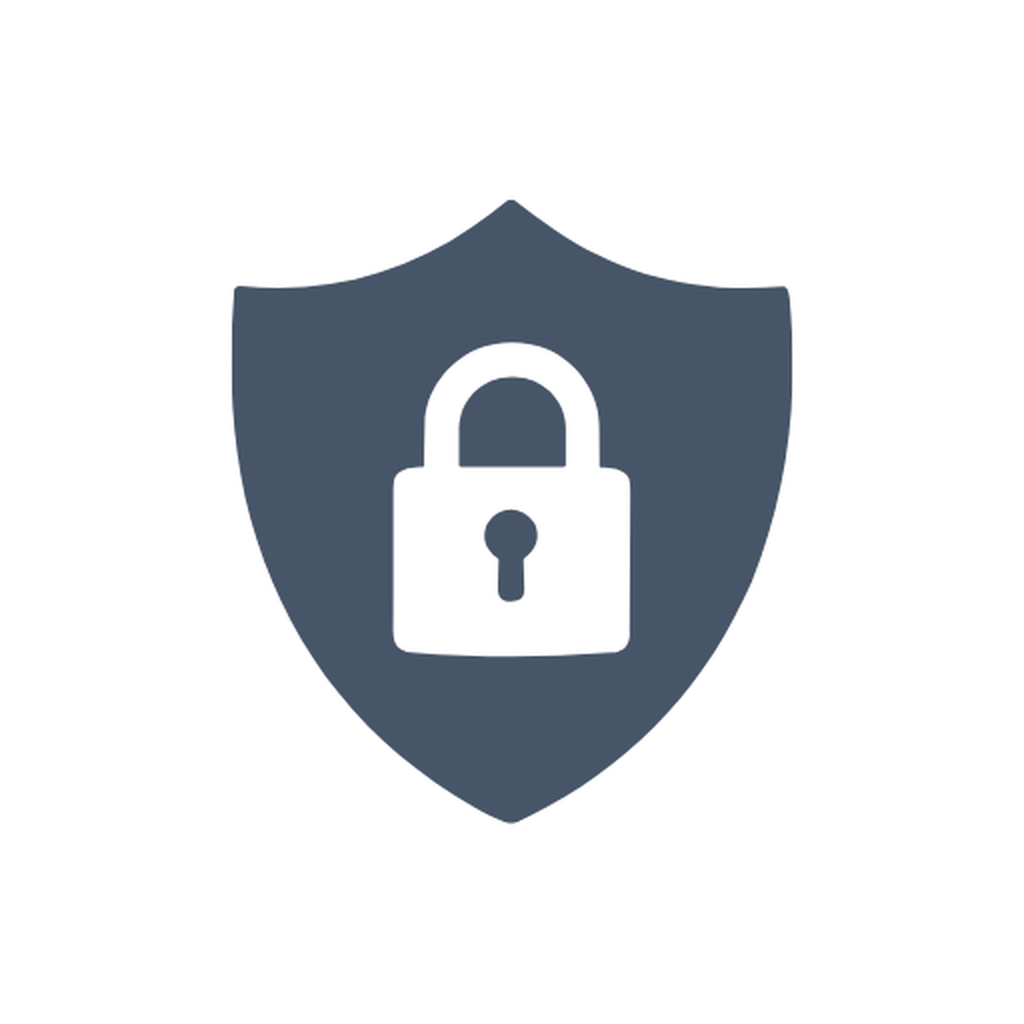
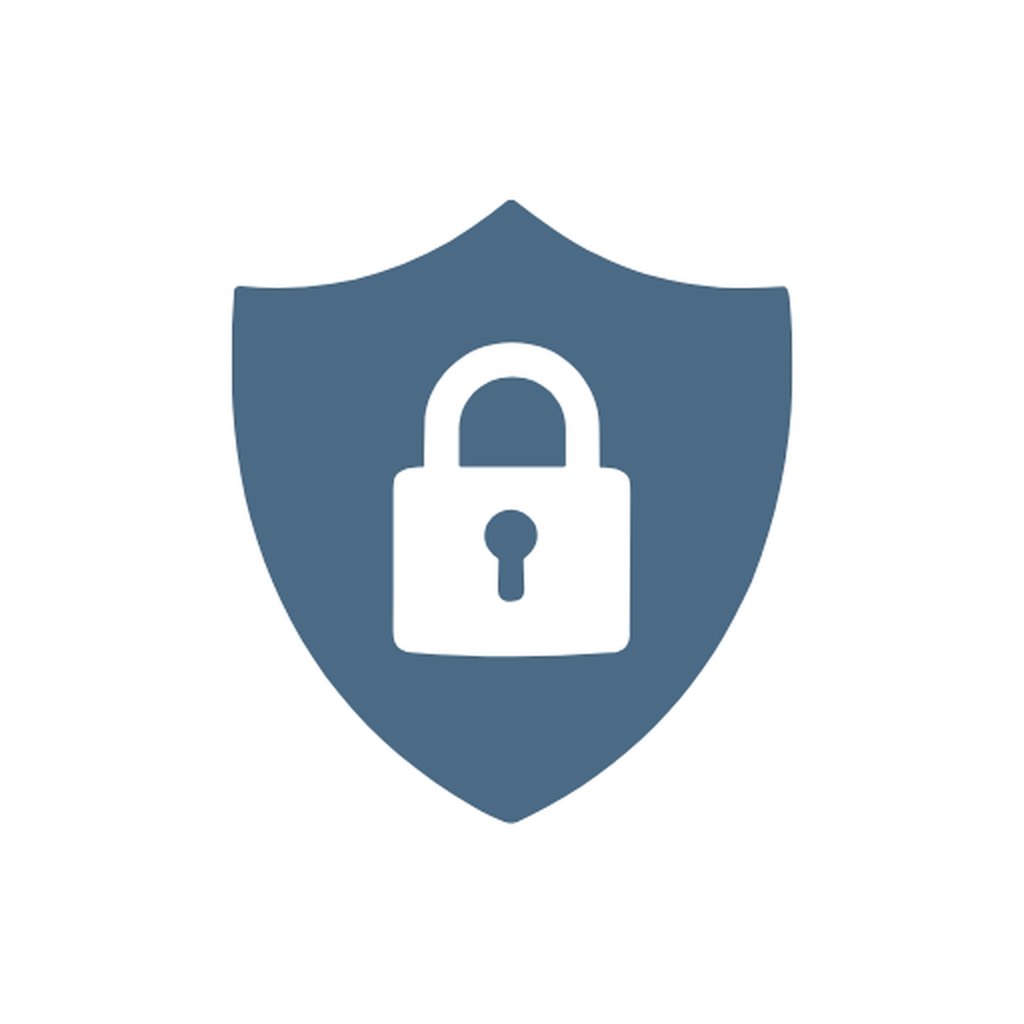
style: sentence-case type, lifted cards, Vault in Steel
Chosen from the style previews (font B, style A, Vault Steel):

- Type (same font, Geist): section titles, KPI labels and the small labels
  inside cards and forms drop ALL CAPS for sentence case; section titles are
  darker; amounts are larger and bolder with tabular digits.
- Surfaces: the light tint stays; cards (KPIs, cards, holding cards, settings,
  Coming up / Forecast, attendance rows) drop their outline and lift on a soft
  shadow in the app colour; the title bar casts a faint shadow.
- Vault accent: Steel #4A6A85 with matching tints, status-bar colour, manifest
  and recoloured icons. FinTracker blue and Staff teal unchanged.

The type and surface rules are one documented block appended to each app's
stylesheet so they override the older rules without rewriting them.

Claude-Session: https://claude.ai/code/session_01DLSV1RoUEk1Hy7YAgh29bM

Changed region(s): [[0.2188, 0.1875, 0.7812, 0.8125], [0.4688, 0.5, 0.5312, 0.5938]]

diff --git a/packages/apps/vault/src/styles/globals.css b/packages/apps/vault/src/styles/globals.css
@@ -16,9 +16,9 @@ button, input, select, textarea {
 .with-app-shell { overflow-x: hidden; background: var(--bg); min-height: 100vh; }
 
 :root {
-  /* Vault accent: Slate. Shared kit, own identity. */
-  --bg: #F4F6F8; --card: #FFF; --border: #D5DCE4; --text: #0F172A; --muted: #526070;
-  --navy: #475569; --accent-rgb: 71, 85, 105; --navy-lt: #EEF1F5; --navy-dark: #475569;
+  /* Vault accent: Steel. Shared kit, own identity. */
+  --bg: #F6F8F9; --card: #FFF; --border: #D6DDE3; --text: #0F172A; --muted: #526070;
+  --navy: #4A6A85; --accent-rgb: 74, 106, 133; --navy-lt: #F1F3F5; --navy-dark: #4A6A85;
   --green: #166534; --green-lt: #F0FDF4; --gm: #22C55E;
   --red: var(--rm); --red-lt: #FEF2F2; --rm: #EF4444;
   --amber: var(--rm); --amber-lt: var(--red-lt);
@@ -28,7 +28,7 @@ button, input, select, textarea {
 }
 
 /* NAV */
-.nav { background: var(--navy-lt); height: calc(54px + env(safe-area-inset-top)); display: flex; align-items: center; justify-content: space-between; padding: env(safe-area-inset-top) 14px 0; position: sticky; top: 0; z-index: 100; box-shadow: 0 1px 0 var(--border); gap: 10px; will-change: transform; transform: translateZ(0); }
+.nav { background: var(--navy-lt); height: calc(54px + env(safe-area-inset-top)); display: flex; align-items: center; justify-content: space-between; padding: env(safe-area-inset-top) 14px 0; position: sticky; top: 0; z-index: 100; box-shadow: 0 1px 0 var(--border), 0 4px 10px -8px rgba(var(--accent-rgb), .45); gap: 10px; will-change: transform; transform: translateZ(0); }
 .nav-b { color: var(--text); font-weight: 500; font-size: 13px; letter-spacing: 0; white-space: nowrap; }
 .nav-b em { color: #A5B4FC; font-style: normal; }
 /* App icon: white glyph on a solid tile of the app's colour (header style B). */
@@ -1960,3 +1960,24 @@ button, .pill, .icon-btn, .bamt { touch-action: manipulation; -webkit-tap-highli
   letter-spacing: .02em;
   color: var(--text);
 }
+
+/* ───────── Type and surfaces (chosen Nov 2026: font B + style A) ─────────
+   Font B: same font (Geist); sentence case instead of ALL CAPS, darker section
+   titles, larger amounts with aligned digits.
+   Style A: light tint kept; cards drop their outline and lift on a soft shadow
+   in the app colour. Appended last so it wins over the older rules above. */
+.ui-kit-section-title { text-transform: none; letter-spacing: 0; font-size: 15px; font-weight: 600; color: var(--text); }
+.ui-kit-kpi-label,
+.kpi-card-l, .monthly-subpage .kpi-card-l, .dashboard-page .kpi-card-l,
+.holding-label, .ui-kit-holding-detail-label, .ui-kit-holding-pnl-label, .ui-kit-holding-stat span, .ui-kit-summary-metric-label,
+.ui-metric-label, .ui-section-title, .ui-mini-title, .sec-h, .form-lbl, .settings-row-label, .budget-mini-lbl {
+  text-transform: none; letter-spacing: 0;
+}
+.ui-kit-kpi-label, .kpi-card-l, .monthly-subpage .kpi-card-l, .dashboard-page .kpi-card-l { font-size: 12.5px; font-weight: 500; }
+.holding-label, .ui-kit-holding-detail-label, .ui-kit-holding-stat span, .ui-kit-holding-pnl-label { font-size: 11.5px; font-weight: 500; }
+.kpi-card-v, .kpi-card-v-soft,
+.monthly-subpage .kpi-card-v, .monthly-subpage .kpi-card-v-soft, .dashboard-page .kpi-card-v, .dashboard-page .kpi-card-v-soft {
+  font-size: 20px; font-weight: 650; letter-spacing: -0.01em; font-variant-numeric: tabular-nums;
+}
+:root { --sh: 0 1px 2px rgba(var(--accent-rgb), .10), 0 8px 18px -10px rgba(var(--accent-rgb), .35); }
+.kpi-card, .ui-kit-card, .ui-kit-holding-card, .ui-kit-kpi, .settings-card { border-color: transparent; box-shadow: var(--sh); }

diff --git a/packages/apps/staff/src/styles/globals.css b/packages/apps/staff/src/styles/globals.css
@@ -34,7 +34,7 @@ button, input, select, textarea {
 }
 
 /* NAV */
-.nav { background: var(--navy-lt); height: calc(54px + env(safe-area-inset-top)); display: flex; align-items: center; justify-content: space-between; padding: env(safe-area-inset-top) 14px 0; position: sticky; top: 0; z-index: 100; box-shadow: 0 1px 0 var(--border); gap: 10px; will-change: transform; transform: translateZ(0); }
+.nav { background: var(--navy-lt); height: calc(54px + env(safe-area-inset-top)); display: flex; align-items: center; justify-content: space-between; padding: env(safe-area-inset-top) 14px 0; position: sticky; top: 0; z-index: 100; box-shadow: 0 1px 0 var(--border), 0 4px 10px -8px rgba(var(--accent-rgb), .45); gap: 10px; will-change: transform; transform: translateZ(0); }
 .nav-b { color: var(--text); font-weight: 500; font-size: 13px; letter-spacing: 0; white-space: nowrap; }
 .nav-b em { color: #A5B4FC; font-style: normal; }
 /* App icon: white glyph on a solid tile of the app's colour (header style B). */
@@ -2029,3 +2029,26 @@ button, .pill, .icon-btn, .bamt { touch-action: manipulation; -webkit-tap-highli
 .att-dot { width: 10px; height: 10px; border-radius: 3px; display: inline-block; border: 1.5px solid; }
 .att-dot.is-work { background: rgba(var(--accent-rgb), 0.12); border-color: var(--navy); }
 .att-dot.is-ot { background: rgba(217, 119, 6, 0.14); border-color: #d97706; }
+
+/* ───────── Type and surfaces (chosen Nov 2026: font B + style A) ─────────
+   Font B: same font (Geist); sentence case instead of ALL CAPS, darker section
+   titles, larger amounts with aligned digits.
+   Style A: light tint kept; cards drop their outline and lift on a soft shadow
+   in the app colour. Appended last so it wins over the older rules above. */
+.ui-kit-section-title { text-transform: none; letter-spacing: 0; font-size: 15px; font-weight: 600; color: var(--text); }
+.ui-kit-kpi-label,
+.kpi-card-l, .monthly-subpage .kpi-card-l, .dashboard-page .kpi-card-l,
+.holding-label, .ui-kit-holding-detail-label, .ui-kit-holding-pnl-label, .ui-kit-holding-stat span, .ui-kit-summary-metric-label,
+.ui-metric-label, .ui-section-title, .ui-mini-title, .sec-h, .form-lbl, .settings-row-label, .budget-mini-lbl {
+  text-transform: none; letter-spacing: 0;
+}
+.ui-kit-kpi-label, .kpi-card-l, .monthly-subpage .kpi-card-l, .dashboard-page .kpi-card-l { font-size: 12.5px; font-weight: 500; }
+.holding-label, .ui-kit-holding-detail-label, .ui-kit-holding-stat span, .ui-kit-holding-pnl-label { font-size: 11.5px; font-weight: 500; }
+.kpi-card-v, .kpi-card-v-soft,
+.monthly-subpage .kpi-card-v, .monthly-subpage .kpi-card-v-soft, .dashboard-page .kpi-card-v, .dashboard-page .kpi-card-v-soft {
+  font-size: 20px; font-weight: 650; letter-spacing: -0.01em; font-variant-numeric: tabular-nums;
+}
+:root { --sh: 0 1px 2px rgba(var(--accent-rgb), .10), 0 8px 18px -10px rgba(var(--accent-rgb), .35); }
+.kpi-card, .ui-kit-card, .ui-kit-holding-card, .ui-kit-kpi, .settings-card { border-color: transparent; box-shadow: var(--sh); }
+.att-row { border-color: transparent; box-shadow: var(--sh); }
+.att-row.is-present { border-color: var(--navy); }

diff --git a/packages/apps/fintracker/src/styles/globals.css b/packages/apps/fintracker/src/styles/globals.css
@@ -27,7 +27,7 @@ button, input, select, textarea {
 }
 
 /* NAV */
-.nav { background: var(--navy-lt); height: calc(54px + env(safe-area-inset-top)); display: flex; align-items: center; justify-content: space-between; padding: env(safe-area-inset-top) 14px 0; position: sticky; top: 0; z-index: 100; box-shadow: 0 1px 0 var(--border); gap: 10px; will-change: transform; transform: translateZ(0); }
+.nav { background: var(--navy-lt); height: calc(54px + env(safe-area-inset-top)); display: flex; align-items: center; justify-content: space-between; padding: env(safe-area-inset-top) 14px 0; position: sticky; top: 0; z-index: 100; box-shadow: 0 1px 0 var(--border), 0 4px 10px -8px rgba(var(--accent-rgb), .45); gap: 10px; will-change: transform; transform: translateZ(0); }
 .nav-b { color: var(--text); font-weight: 500; font-size: 13px; letter-spacing: 0; white-space: nowrap; }
 .nav-b em { color: #A5B4FC; font-style: normal; }
 /* App icon: white glyph on a solid tile of the app's colour (header style B). */
@@ -2270,3 +2270,26 @@ button, .pill, .icon-btn, .bamt { touch-action: manipulation; -webkit-tap-highli
 .forecast-line.is-over { border-color: var(--rm); }
 .forecast-line.is-over span:first-child b { color: var(--rm); }
 .dash-chart-row--single { grid-template-columns: 1fr; }
+
+/* ───────── Type and surfaces (chosen Nov 2026: font B + style A) ─────────
+   Font B: same font (Geist); sentence case instead of ALL CAPS, darker section
+   titles, larger amounts with aligned digits.
+   Style A: light tint kept; cards drop their outline and lift on a soft shadow
+   in the app colour. Appended last so it wins over the older rules above. */
+.ui-kit-section-title { text-transform: none; letter-spacing: 0; font-size: 15px; font-weight: 600; color: var(--text); }
+.ui-kit-kpi-label,
+.kpi-card-l, .monthly-subpage .kpi-card-l, .dashboard-page .kpi-card-l,
+.holding-label, .ui-kit-holding-detail-label, .ui-kit-holding-pnl-label, .ui-kit-holding-stat span, .ui-kit-summary-metric-label,
+.ui-metric-label, .ui-section-title, .ui-mini-title, .sec-h, .form-lbl, .settings-row-label, .budget-mini-lbl {
+  text-transform: none; letter-spacing: 0;
+}
+.ui-kit-kpi-label, .kpi-card-l, .monthly-subpage .kpi-card-l, .dashboard-page .kpi-card-l { font-size: 12.5px; font-weight: 500; }
+.holding-label, .ui-kit-holding-detail-label, .ui-kit-holding-stat span, .ui-kit-holding-pnl-label { font-size: 11.5px; font-weight: 500; }
+.kpi-card-v, .kpi-card-v-soft,
+.monthly-subpage .kpi-card-v, .monthly-subpage .kpi-card-v-soft, .dashboard-page .kpi-card-v, .dashboard-page .kpi-card-v-soft {
+  font-size: 20px; font-weight: 650; letter-spacing: -0.01em; font-variant-numeric: tabular-nums;
+}
+:root { --sh: 0 1px 2px rgba(var(--accent-rgb), .10), 0 8px 18px -10px rgba(var(--accent-rgb), .35); }
+.kpi-card, .ui-kit-card, .ui-kit-holding-card, .ui-kit-kpi, .settings-card { border-color: transparent; box-shadow: var(--sh); }
+.reminders, .forecast-line { border-color: transparent; box-shadow: var(--sh); }
+.forecast-line.is-over { box-shadow: var(--sh), inset 0 0 0 1px var(--rm); }

diff --git a/packages/shared/ui/src/styles/globals.css b/packages/shared/ui/src/styles/globals.css
@@ -26,7 +26,7 @@ button, input, select, textarea {
 }
 
 /* NAV */
-.nav { background: var(--navy-lt); height: calc(54px + env(safe-area-inset-top)); display: flex; align-items: center; justify-content: space-between; padding: env(safe-area-inset-top) 14px 0; position: sticky; top: 0; z-index: 100; box-shadow: 0 1px 0 var(--border); gap: 10px; will-change: transform; transform: translateZ(0); }
+.nav { background: var(--navy-lt); height: calc(54px + env(safe-area-inset-top)); display: flex; align-items: center; justify-content: space-between; padding: env(safe-area-inset-top) 14px 0; position: sticky; top: 0; z-index: 100; box-shadow: 0 1px 0 var(--border), 0 4px 10px -8px rgba(var(--accent-rgb), .45); gap: 10px; will-change: transform; transform: translateZ(0); }
 .nav-b { color: var(--text); font-weight: 500; font-size: 13px; letter-spacing: 0; white-space: nowrap; }
 .nav-b em { color: #A5B4FC; font-style: normal; }
 /* App icon: white glyph on a solid tile of the app's colour (header style B). */

diff --git a/packages/apps/vault/src/pages/_document.tsx b/packages/apps/vault/src/pages/_document.tsx
@@ -27,7 +27,7 @@ export default class MyDocument extends Document<Props> {
           <link rel="icon" href="/favicon.svg" type="image/svg+xml" />
           <link rel="apple-touch-icon" href="/vault-192.png" />
           <meta name="color-scheme" content="light" />
-          <meta name="theme-color" content="#EEF1F5" />
+          <meta name="theme-color" content="#F1F3F5" />
           <meta name="apple-mobile-web-app-capable" content="yes" />
           <meta name="mobile-web-app-capable" content="yes" />
           <meta name="apple-mobile-web-app-status-bar-style" content="default" />
